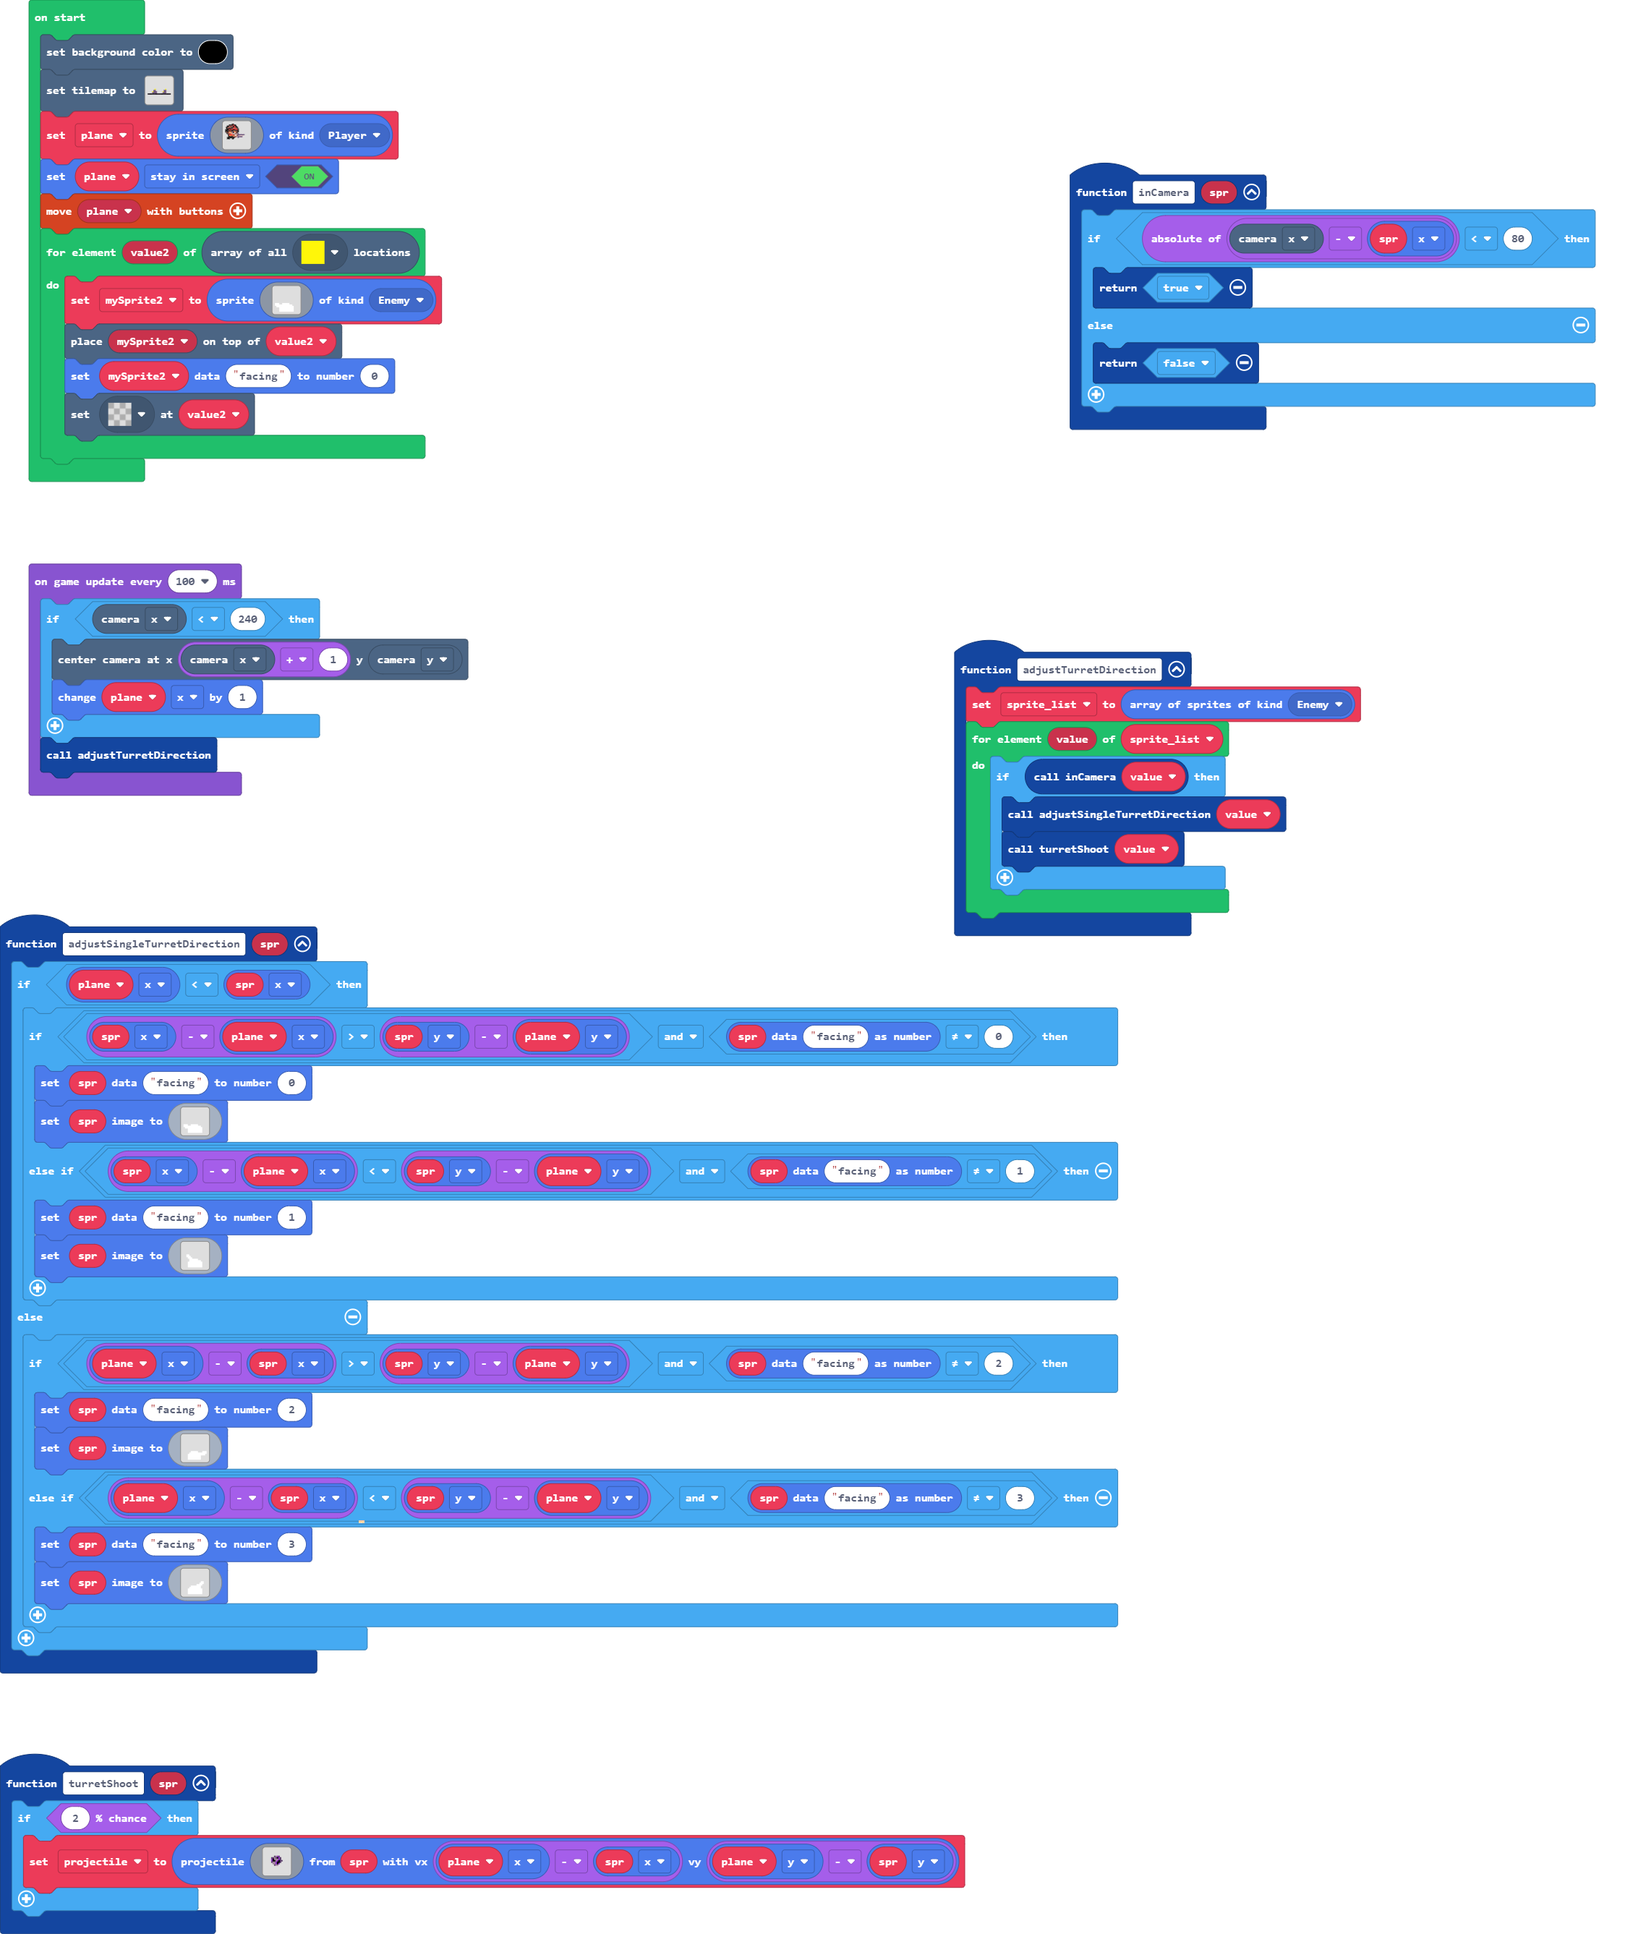
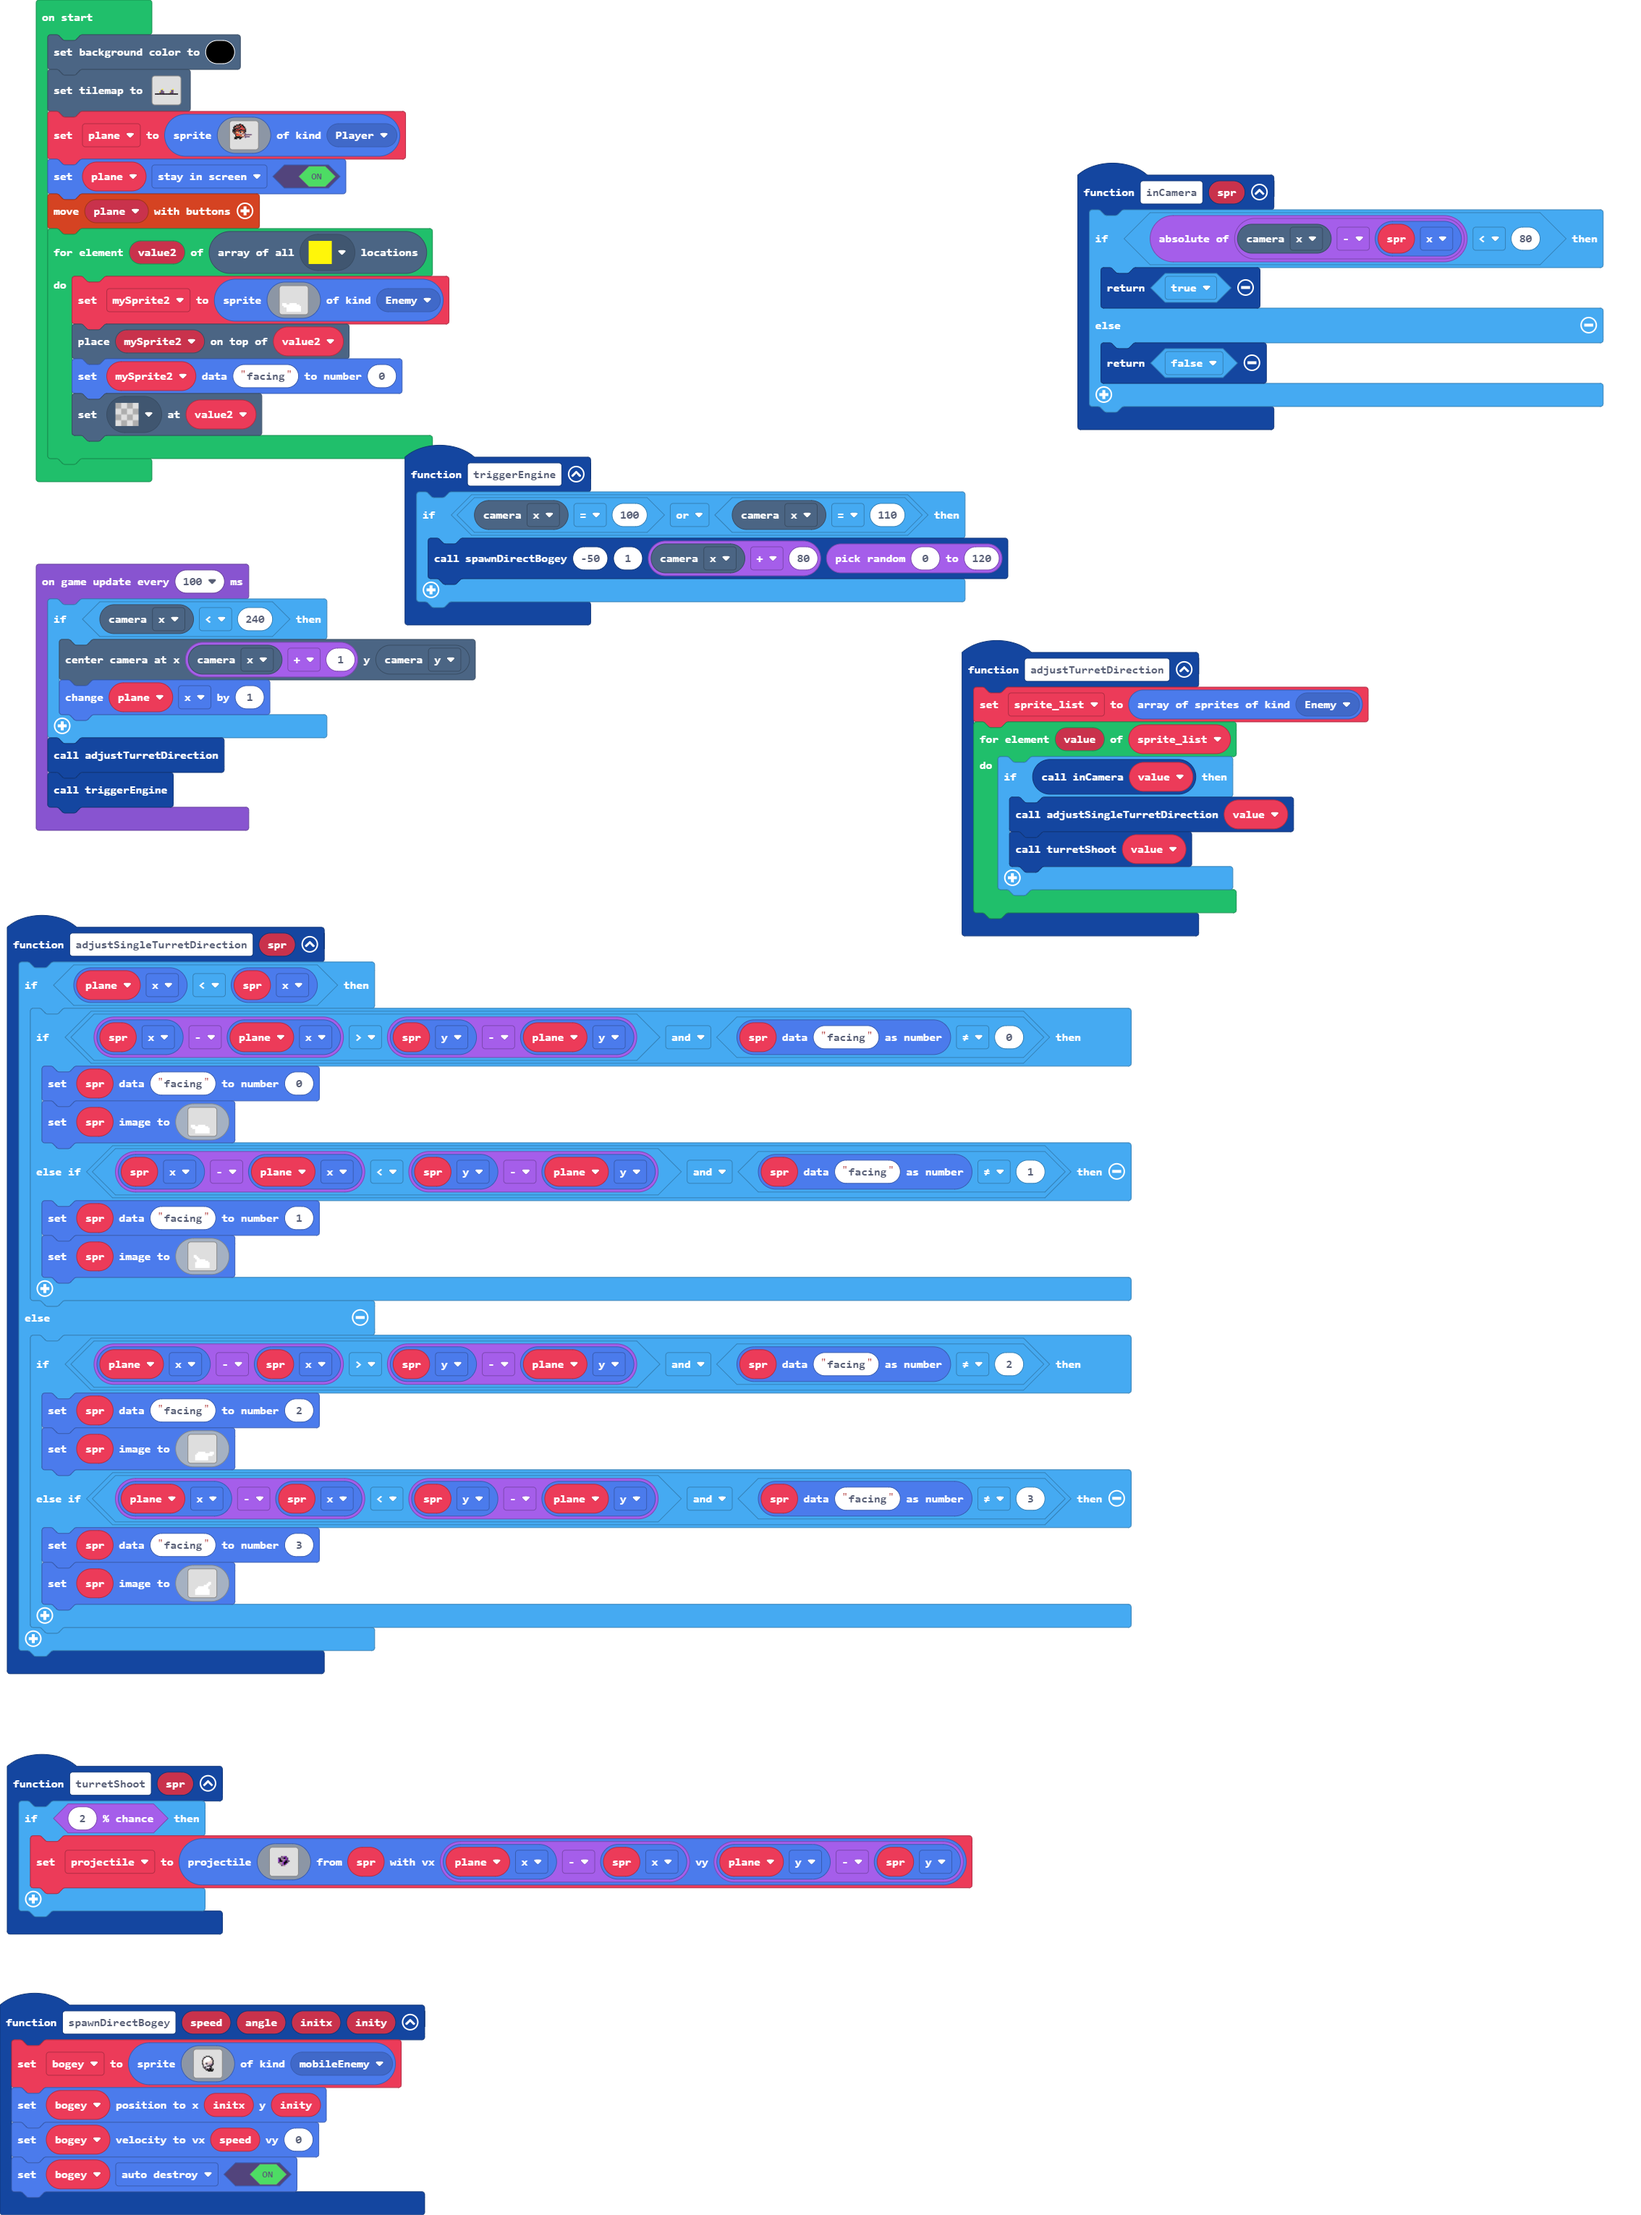
add bogey fly from right to left

diff --git a/main.ts b/main.ts
@@ -1,9 +1,43 @@
+namespace SpriteKind {
+    export const mobileEnemy = SpriteKind.create()
+}
 function inCamera (spr: Sprite) {
     if (Math.abs(scene.cameraProperty(CameraProperty.X) - spr.x) < 80) {
         return true
     } else {
         return false
     }
+}
+function spawnDirectBogey (speed: number, angle: number, initx: number, inity: number) {
+    bogey = sprites.create(img`
+        ........................
+        ........................
+        ........................
+        ........................
+        ..........ffff..........
+        ........ff1111ff........
+        .......fb111111bf.......
+        .......f1111111df.......
+        ......fd1111111ddf......
+        ......fd111111dddf......
+        ......fd111ddddddf......
+        ......fd1dfbddddbf......
+        ......fbddfcdbbbcf......
+        .......f11111bbcf.......
+        .......f1b1fffff........
+        .......fbfc111bf........
+        ........ff1b1bff........
+        .........fbfbfff.f......
+        ..........ffffffff......
+        ............fffff.......
+        ........................
+        ........................
+        ........................
+        ........................
+        `, SpriteKind.mobileEnemy)
+    bogey.setPosition(initx, inity)
+    bogey.setVelocity(speed, 0)
+    bogey.setFlag(SpriteFlag.AutoDestroy, true)
 }
 function adjustTurretDirection () {
     sprite_list = sprites.allOfKind(SpriteKind.Enemy)
@@ -123,8 +157,14 @@ function adjustSingleTurretDirection (spr: Sprite) {
         }
     }
 }
+function triggerEngine () {
+    if (scene.cameraProperty(CameraProperty.X) == 100 || scene.cameraProperty(CameraProperty.X) == 110) {
+        spawnDirectBogey(-50, 1, scene.cameraProperty(CameraProperty.X) + 80, randint(0, 120))
+    }
+}
 let projectile: Sprite = null
 let sprite_list: Sprite[] = []
+let bogey: Sprite = null
 let mySprite2: Sprite = null
 let plane: Sprite = null
 scene.setBackgroundColor(15)
@@ -195,4 +235,5 @@ game.onUpdateInterval(100, function () {
         plane.x += 1
     }
     adjustTurretDirection()
+    triggerEngine()
 })
